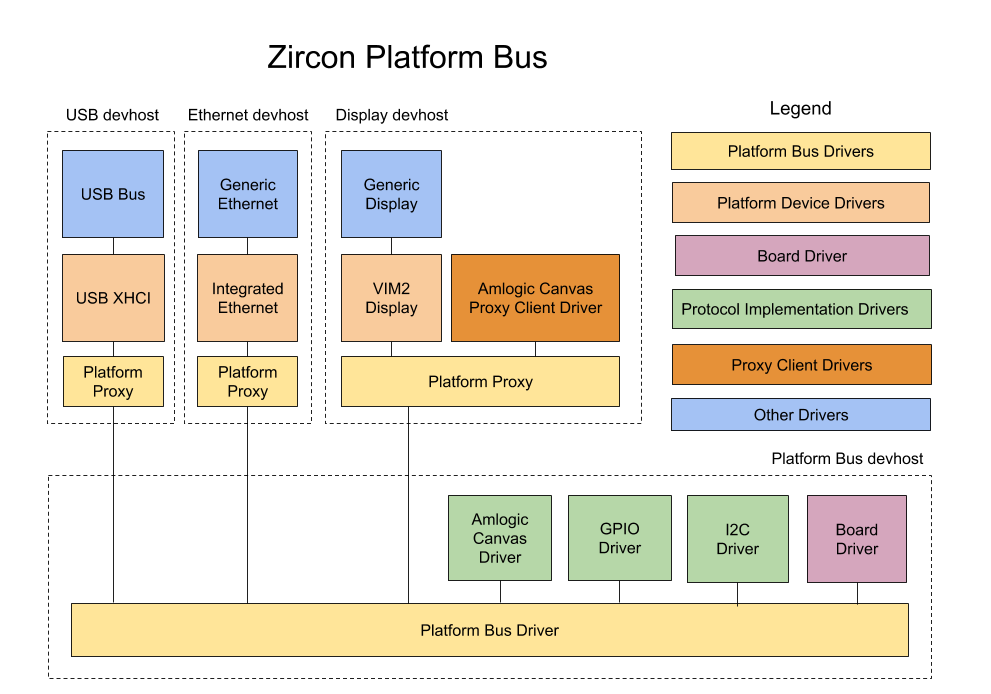
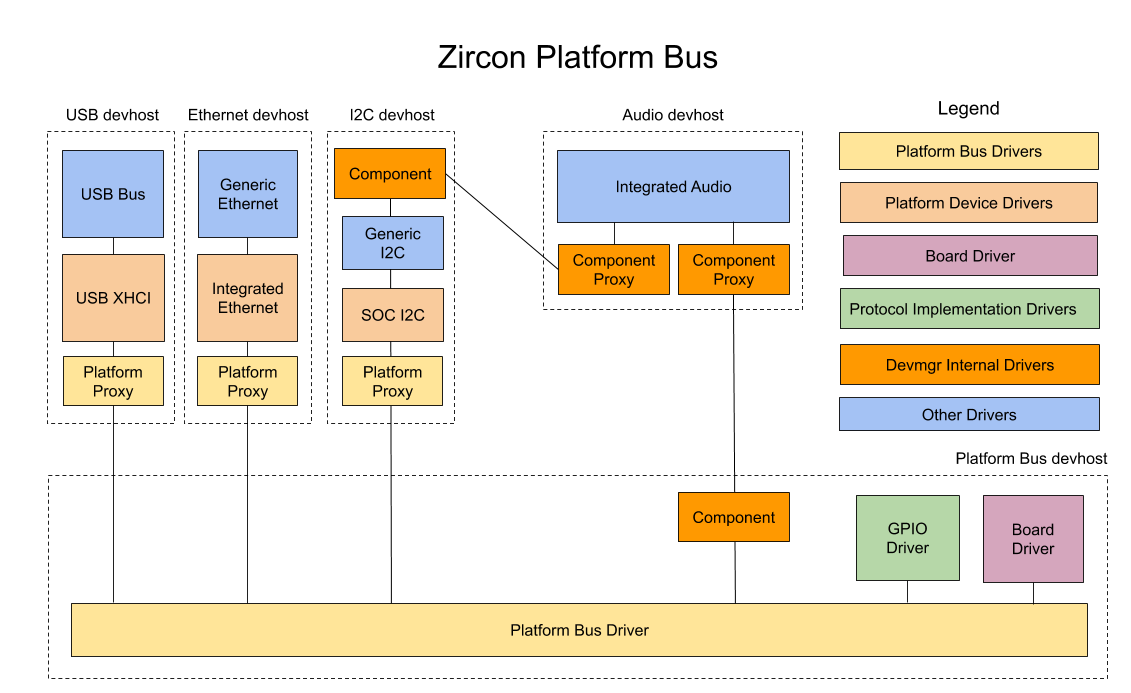
[docs][ddk] Update platform bus documentation
Many changes were made to platform bus since this doc was last updated,
including removing support for proxying other protocols to platform devices,
which was replaced by support for composite devices.

diff --git a/docs/zircon/ddk/platform-bus.md b/docs/zircon/ddk/platform-bus.md
@@ -3,13 +3,10 @@
 ## Introduction
 
 The term **platform bus** refers to a specific Zircon driver with source code located at
-[system/dev/bus/platform/](/zircon/system/dev/bus/platform/)).
-However this term also refers to the framework that manages lower level drivers on arm64
-SOC-based platforms. To differentiate the two below, we will use *platform bus driver*
-when referring to the specific driver, and *platform bus* when referring to the general framework.
-
-The platform bus is currently not used on x86 platforms, since ACPI performs a similar role on x86.
-On platforms that use it, the platform bus is represented in the device tree as `/sys`.
+[//fuchsia/zircon/system/dev/bus/platform/](../../../zircon/system/dev/bus/platform/)).
+However this term also refers to the framework that manages the lower level drivers in Zircon.
+In this document, **platform bus driver** refers to a specific driver and **platform bus**
+refers to the general framework.
 
 The platform bus as a whole contains several types of drivers:
 
@@ -20,23 +17,21 @@ by the devmgr when the system boots.
 - The **board driver**, which is the first driver loaded by the platform bus driver.
 The board driver contains all the platform specific information needed by the platform bus
 and controls what other drivers will be loaded by the platform bus.
-The platform bus driver uses information from the bootloader to bind the correct board driver
-for the platform it is running on.
+On arm64 platforms, the platform bus driver uses information from the bootloader or boot shim
+to bind the correct board driver for the platform it is running on.
+On x86 platforms, the platform bus driver always loads the x86 board driver and creates platform
+devices based on information from ACPI.
 
 - The **platform device drivers** are the foundations for the higher level drivers in Zircon.
 These drivers provide the lowest level of support for a particular feature, like USB,
 eMMC or NAND storage, etc., with higher level drivers loading on top of that.
 
-- The **protocol implementation drivers**, such as GPIO or I2C, which provide protocol
-support as resources to platform device drivers. These drivers run in the same devhost as the
-platform bus driver. Protocol implementation drivers can also implement vendor or SOC-specific
-protocols and make them available to platform devices using a **proxy client driver** (see below).
-
-- The **proxy client driver** is a driver that implements client support for a vendor or
-SOC-specific protocol. This driver loads in the platform device's devhost and is responsible
-for proxying its protocol to the protocol implementation driver.
-The Amlogic Canvas driver at [system/dev/display/aml-canvas/](/zircon/system/dev/display/aml-canvas/)
-provides a simple example of how the proxying works.
+- The **protocol implementation drivers** are drivers that provide protocols that are needed
+by the board driver. One common example of this is the GPIO driver, which is often needed by the
+board driver for pin-muxing. In the past, the platform bus used to also proxy these drivers'
+protocols to platform devices, but now we use composite devices instead.
+Over time we will likely phase out the use of protocol implementation drivers in the platform bus
+and replace it with a new approach that does not require blocking to wait for drivers to load.
 
 - Finally, the **platform proxy driver** a companion to the platform bus driver that loads
 into the platform device devhosts. This driver supports proxying the platform device protocol
@@ -47,30 +42,55 @@ different devhost process than the platform bus driver and the protocol implemen
 ![Zircon Platform Bus diagram](platform-bus.png)
 Source: [https://goto.google.com/zircon-platform-bus-diagram](https://goto.google.com/zircon-platform-bus-diagram)
 
-## Initialization
+## Platform Bus Initialization
 
 The platform bus driver is started automatically by the devmgr at boot.
 Since the platform bus driver is a generic driver that contains no information about the
 platform it is running on, it first loads the board driver, which handles platform specific logic.
 To determine which board driver to load, platform bus driver reads the `ZBI_TYPE_PLATFORM_ID`
-record from the [ZBI data](/zircon/system/public/zircon/boot/image.h) passed from the bootloader.
-It then adds a device with protocol `ZX_PROTOCOL_PBUS` with the
+record from the [ZBI data](../../../zircon/system/public/zircon/boot/image.h) passed from the
+bootloader. It then adds a device with protocol `ZX_PROTOCOL_PBUS` with the
 `BIND_PLATFORM_DEV_VID` and `BIND_PLATFORM_DEV_PID` binding variables set to the vid and did
 from the platform data record. The correct board driver will bind to this device and continue
-the platform bus initialization process..
+the platform bus initialization process. On x86 platforms, the x86 board driver is loaded
+automatically.
 
 The board driver uses the platform bus protocol to communicate with the platform bus driver.
-After it does its own initialization, the board driver then uses the `pbus_protocol_device_add()`
-API to load protocol implementation drivers for GPIO, I2C and other low level SOC protocols to be
-provided to the platform device drivers.
-After the protocol implementation drivers are loaded and have registered their protocols
-via the pbus_register_protocol() API, the board driver will call pbus_device_add() to create
-platform devices, which will result in platform device drivers loading each in its own devhost.
+After it does its own initialization, the board driver then uses the `ProtocolDeviceAdd()`
+call in the platform bus protocol to load protocol implementation drivers.
+After the protocol implementation driver loads, it must register its protocol with the platform bus
+driver by calling the  platform bus `RegisterProtocol()` API.
+`ProtocolDeviceAdd()` will block until the driver calls `RegisterProtocol()`, so the board driver
+must call `RegisterProtocol()` from one of its own threads rather than a devmgr callback like
+`Bind()`.
+
+After the protocol devices are added, the board driver will call the `DeviceAdd()` call
+in the platform bus protocol to create platform devices, which will result in
+platform device drivers loading each in its own devhost.
 After the platform devices are created, the platform bus initialization is complete.
+
+## Composite Platform Devices
+
+The platform bus also supports adding platform devices to be used as components in composite
+devices. The platform bus `CompositeDeviceAdd()` call adds a composite device, with the zeroth
+component being a platform device described by the provided `PBusDev` struct.
+The binding rules for the remaining components are provided by the `components` parameter.
+The `coresident_device_index` is used to specify which devhost the composite device
+should be created in. A value of `UINT32_MAX` will result in a new devhost being created for the
+composite device, while a value of 1 through n will add the composite device to the devhost of one
+of the other components. Passing 0 is not allowed, since we do not want the composite device
+to be added to the platform bus driver's devhost.
+
+The internals of composite platform devices are a bit different than the non-composite case.
+Instead of using the platform proxy driver, the devmgr **component** and **component proxy** drivers
+proxy the platform device protcol instead. For example, in the diagram above we have a composite device
+for an audio driver with a platform device as its first component and an I2C channel as its second.
+The audio driver is started in a new devhost, and the devmmgr component and component proxy drivers
+are responsible for proxying the PDEV and I2C protocols to the audio driver.
 
 ## Platform Device Protocol
 
-The [platform device protocol](/zircon/system/dev/lib/device-protocol-platform-device/include/lib/device-protocol/platform-device.h)
+The [platform device protocol](../../..//zircon/system/banjo/ddk.protocol.platform.device/platform-device.banjo)
 (`ZX_PROTOCOL_PDEV`) is the main protocol provided by the platform bus to
 platform device drivers. This protocol provides access to resources like MMIO ranges, interrupts,
 BTIs, and SMC ranges to the platform device driver. Rather than requesting MMIOs and interrupts by
@@ -78,7 +98,7 @@ physical addresses or IRQ numbers, these resource are requested by a zero-based 
 This allows us to have platform device drivers for particular IP that works across multiple
 platforms, since the knowledge of the exact MMIO addresses and interrupt numbers do not need to be
 known by the driver. Instead the board driver configures the MMIO addresses and IRQ numbers in the
-`pbus_dev_t` struct passed via `pbus_add_device()`.
+`PbusDev` struct passed via `AddDevice()`.
 
 The platform device protocol is also available to protocol implementation drivers.
 For example, a GPIO driver may use the platform device protocol to access its MMIO and interrupts.
@@ -86,31 +106,9 @@ This allows protocol implementation drivers to be shared among different SOC var
 where the functionality may be identical but the MMIO addresses and interrupt numbers may be
 different.
 
-The platform device protocol can also be made available to children or indirect descendants
-of platform devices. This solves the use case where children or grandchildren of platform devices
-have drivers that also need to access platform bus resources like MMIO regions and interrupts.
-
-## Resource Protocols
-
-In Zircon, DDK protocols are typically provided as part of the device parent/child relationship.
-The driver for the parent device implements a protocol and the driver for the child device is a
-client of that protocol. However, some protocols don't fit well with the parent/child device
-relationship.
-For example, a driver may need to access one or more GPIOs, but the GPIO is unrelated to the
-main function of the driver. For cases like this, the platform bus can provide protocols to
-platform devices outside of the parent/child relationship.
-
-In addition to MMIOs and interrupts, the board driver can assign GPIOs and I2C buses to platform
-devices via the `pbus_dev_t` struct passed via `pbus_add_device()`.
-The platform device drivers can call `device_get_protocol()` to retrieve these protocols
-and then work with the GPIO pins and I2C buses assigned by the board driver.
-In these protocols, the platform device driver uses zero-based indices to refer to these resources
-rather than raw GPIO pin numbers or I2C bus and address numbers.
-This allows platform device drivers to be more easily reused across different platforms.
-
 ## Platform Bus Protocol
 
-The [platform bus protocol](/zircon/system/dev/bus/platform/platform-bus.h)
+The [platform bus protocol](../../..//zircon/system/banjo/ddk.protocol.platform.bus/platform-bus.banjo)
 (`ZX_PROTOCOL_PBUS`) is used by board drivers and protocol implementation drivers
 to communicate with the platform bus driver. It is only available to drivers running in the
 platform bus's devhost (in particular, it is not accessible to platform device drivers).
@@ -119,10 +117,3 @@ and to start platform device drivers. It is also used by protocol implementation
 register their protocols with the platform bus so their protocols can be made available
 to platform device drivers.
 
-## Platform Proxy Protocol
-
-The [platform proxy protocol](/zircon/system/dev/bus/platform/platform-proxy.h)
-(`ZX_PROTOCOL_PLATFORM_PROXY`) is used by the proxy client drivers that proxy protocols to
-protocol implementation drivers. It provides support for the proxy client driver to register
-its protocol with the platform proxy driver and for proxying its protocol to the
-protocol implementation driver over a channel.
